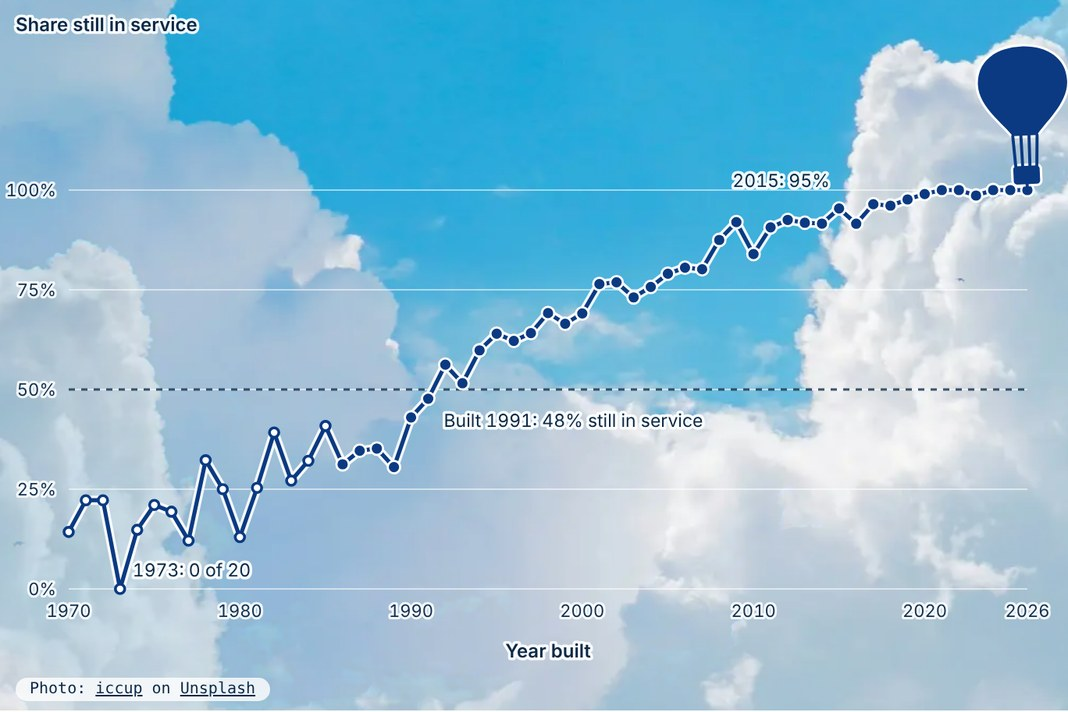
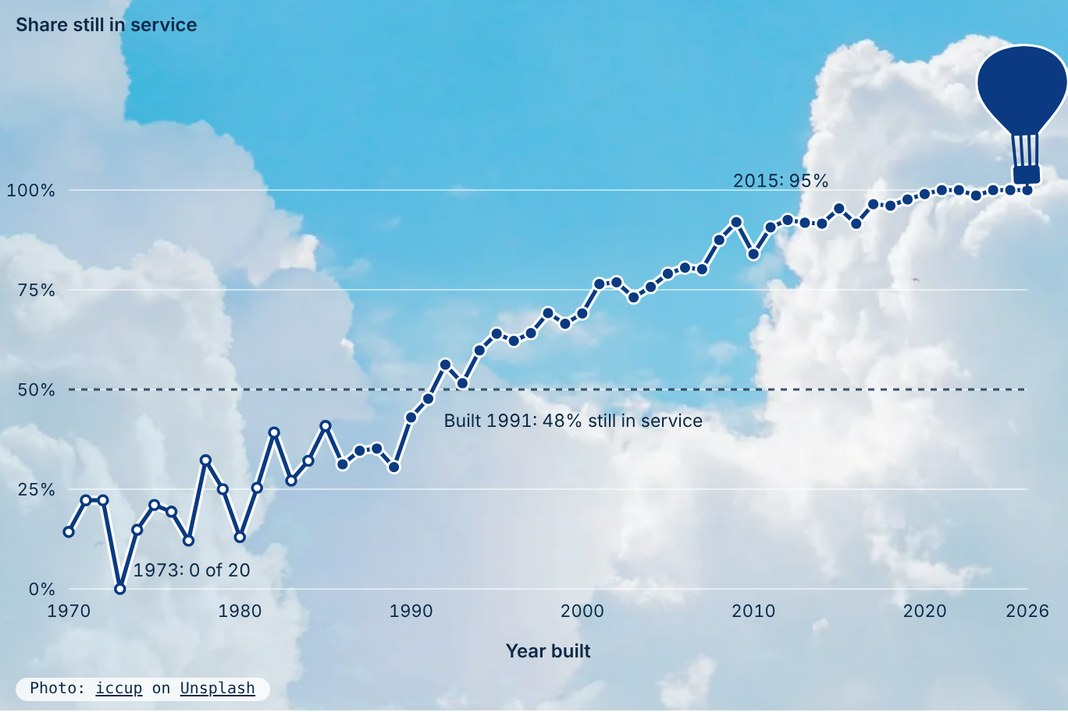
Lighten the sky and drop the white halos on the balloon chart text
Claude-Session: https://claude.ai/code/session_01UJ1HEyH6uF5w3cQEo98E3x

diff --git a/hot-air-balloons/index.html b/hot-air-balloons/index.html
@@ -48,6 +48,7 @@ a { color: inherit; }
 .lede a { font-weight: 600; }
 .skywrap { position: relative; border-radius: 14px; overflow: hidden; isolation: isolate; background: linear-gradient(180deg, #3f86dd 0%, #7fb7ee 52%, #cfe5f8 100%); }
 .skyph { position: absolute; inset: 0; overflow: hidden; z-index: 0; background: #4aa3e3; }
+.skyph::after { content: ""; position: absolute; inset: 0; z-index: 1; background: rgba(255,255,255,.22); pointer-events: none; }
 .skyph img { position: absolute; display: block; max-width: none; height: auto; will-change: transform; }
 .skyph .sk1 { width: 140%; height: 300%; object-fit: cover; left: -20%; top: 0; transform: translate3d(-7%, -43%, 0); animation: skA 24s ease-in-out infinite alternate; }
 .skyph .sk2 { width: 190%; height: 380%; object-fit: cover; left: -45%; top: 0; transform: translate3d(9%, -36%, 0) scaleX(-1); mix-blend-mode: lighten; opacity: .6; animation: skB 24s ease-in-out infinite alternate; }
@@ -57,9 +58,9 @@ a { color: inherit; }
 .sky-credit { position: absolute; left: 10px; bottom: 6px; z-index: 3; margin: 0; font: 500 10px var(--mono); color: #0b2947; background: rgba(255,255,255,.8); border-radius: 99px; padding: 2px 9px; }
 .sky-credit a { color: inherit; }
 .skywrap .chart { z-index: 1; }
-.skywrap .tick { fill: #10304f; paint-order: stroke; stroke: rgba(255,255,255,.85); stroke-width: 3px; stroke-linejoin: round; }
-.skywrap .axt { fill: #0b2947; paint-order: stroke; stroke: rgba(255,255,255,.9); stroke-width: 3.5px; stroke-linejoin: round; }
-.skywrap .lab { fill: #0b2947; stroke: rgba(255,255,255,.92); stroke-width: 3.5px; opacity: 0; transition: opacity .5s; }
+.skywrap .tick { fill: #0b2947; stroke: none; }
+.skywrap .axt { fill: #0b2947; stroke: none; }
+.skywrap .lab { fill: #0b2947; stroke: none; opacity: 0; transition: opacity .5s; }
 .skywrap .lab.on { opacity: 1; }
 .skywrap .gl { stroke: rgba(255,255,255,.55); }
 .skywrap .rf { stroke: rgba(11,41,71,.8); }
